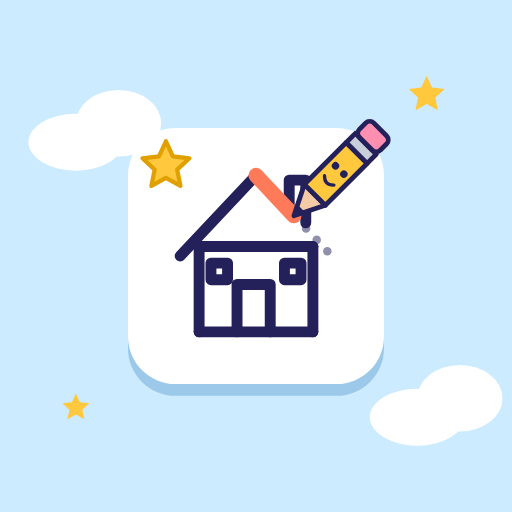
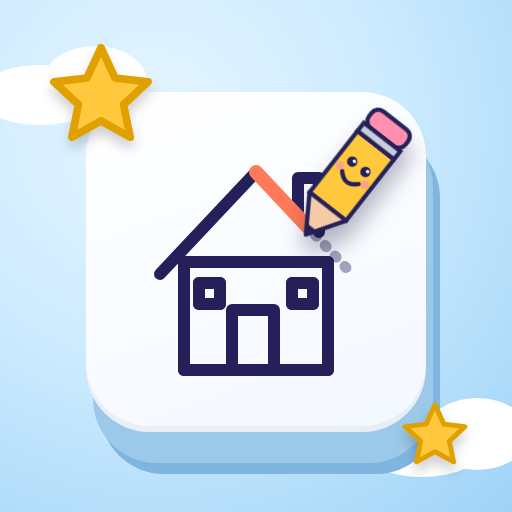
Add Play Store graphics and Super Dev Labs privacy policy
New 3D logo, layered feature graphic and six 1080x1920 screenshots
with pop-out UI; privacy policy names the publisher and contact.

Claude-Session: https://claude.ai/code/session_011yV3CNjaS4oBhoi4chnXu5

diff --git a/DrawToCompleteFun/privacy-policy.html b/DrawToCompleteFun/privacy-policy.html
@@ -13,7 +13,7 @@ h1{font-size:1.8rem}h2{font-size:1.2rem;margin-top:1.8rem}
 <h1>Draw to Complete Fun - Privacy Policy</h1>
 <p>Last updated: October 21, 2026</p>
 
-<p>Draw to Complete Fun ("the app") is a drawing puzzle game made for children. We care about
+<p>Draw to Complete Fun ("the app") is a drawing puzzle game for children published by Super Dev Labs ("we", "us"). We care about
 children's privacy and designed the app to collect as little information as possible.</p>
 
 <h2>Information we collect</h2>
@@ -45,6 +45,6 @@ contact us and we will delete it.</p>
 <p>If this policy changes we will update this page and the date above.</p>
 
 <h2>Contact</h2>
-<p>Email: [YOUR SUPPORT EMAIL]</p>
+<p>Super Dev Labs<br>Email: <a href="mailto:ELONOPO@GMAIL.COM">ELONOPO@GMAIL.COM</a></p>
 </body>
 </html>

diff --git a/DrawToCompleteFun/README.md b/DrawToCompleteFun/README.md
@@ -60,7 +60,7 @@ These are built in already:
 - All art, icons and sounds were created for this project (vector drawings and synthesized audio).
 
 You still need to do these in Play Console / AdMob:
-1. **Host the privacy policy.** `privacy-policy.html` is ready: add your support email in it, enable GitHub Pages (or any host),
+1. **Host the privacy policy.** `privacy-policy.html` is ready (publisher Super Dev Labs). Enable GitHub Pages (or any host),
    then put its URL in `res/values/strings.xml` (`privacy_policy_url`) and in Play Console.
 2. **Play Console > App content:**
    - Target audience: choose the children's age groups.
@@ -70,7 +70,7 @@ You still need to do these in Play Console / AdMob:
    In Blocking controls, set the max ad content rating to G.
 4. Sign the release build (Build > Generate Signed App Bundle) and upload the `.aab`.
 
-Store graphics are in `store-assets/`: a 512x512 icon and a 1024x500 feature graphic.
+Store graphics are in `store-assets/`: a 512x512 icon, a 1024x500 feature graphic and six 1080x1920 phone screenshots.
 
 ## Project map
 
